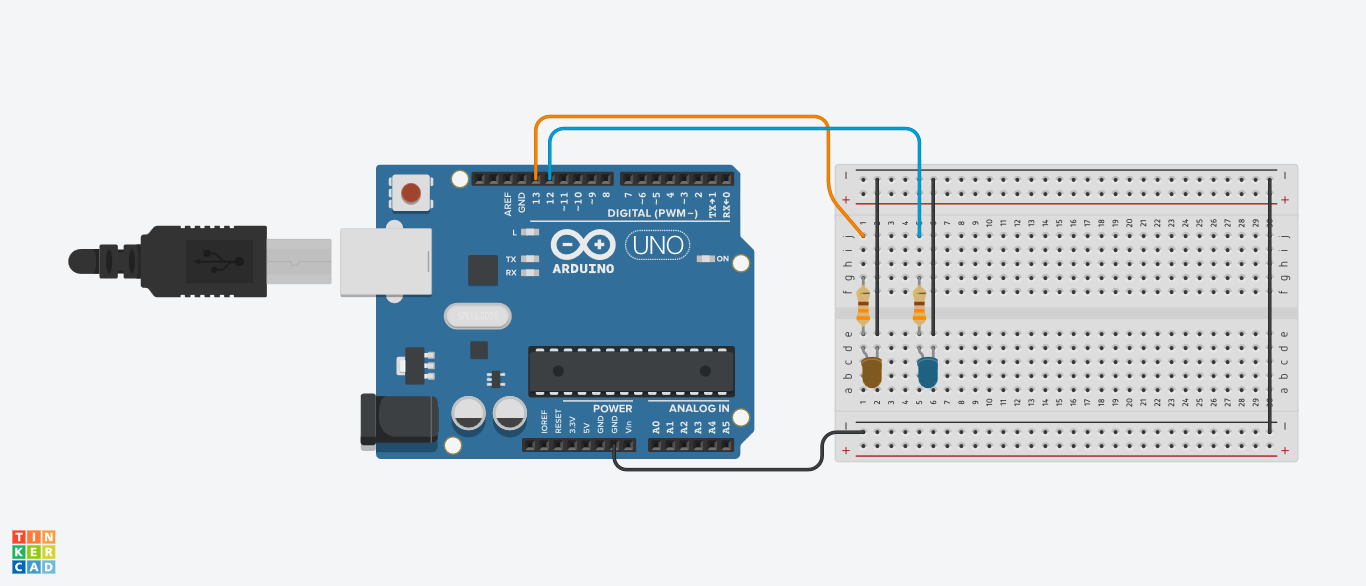
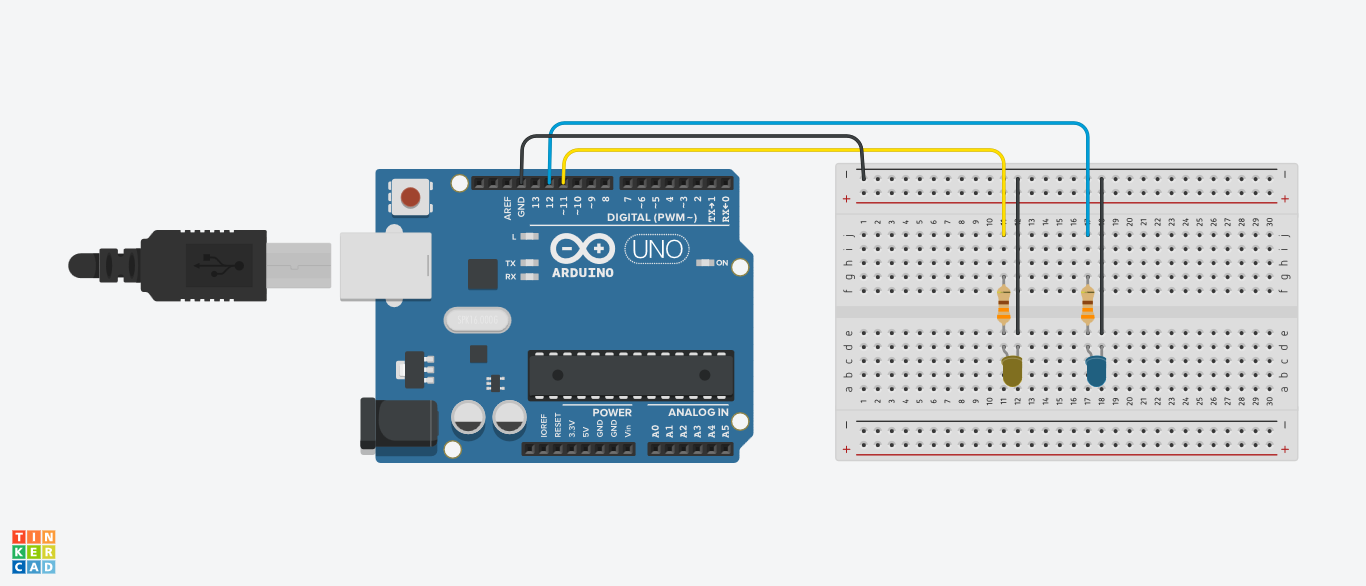
Add and update LED exercises and documentation
Moved the initial exercise to a new Exercises directory, updated pin assignments and timing in 01-exercise.ino, and added exercises 02-06 with corresponding .ino files. Included Exercise.md with instructions in both Portuguese and English. Updated Circuit.png and Scheme.pdf diagrams.

Changed region(s): [[0.246, 0.1843, 0.9531, 0.8294], [0.0615, 0.4608, 0.246, 0.5222], [0.0615, 0.3686, 0.246, 0.43]]

diff --git a/Arduino/01-led/Exercises/Exercise.md b/Arduino/01-led/Exercises/Exercise.md
@@ -1,0 +1,31 @@
+# LED Tasks / Tarefas de LED
+
+## Português (PT-BR)
+
+1. Faça os leds piscarem a cada 4 seg.
+
+2. Faça os leds ficarem acesos por 2 seg. e apagados por 4 seg.
+
+3. Faça os leds ficarem acesos por 2 seg. e apagados por 4 seg. e em seguida acesos por 3 seg. e apagados por 5 seg.
+
+4. Faça apenas um dos leds da placa piscar ao mesmo tempo que o led externo com o tempo 1 seg.
+
+5. Faça o led da placa piscar com um tempo de 2 seg. e o led externo piscar com um tempo de 3 seg. em sequência.
+
+6. Faça o led da placa piscar alternadamente em relação ao led externo com o tempo de 1 seg.
+
+---
+
+## English (EN)
+
+1. Make the LEDs blink every 4 seconds.
+
+2. Make the LEDs stay on for 2 seconds and off for 4 seconds.
+
+3. Make the LEDs stay on for 2 seconds and off for 4 seconds, then on for 3 seconds and off for 5 seconds.
+
+4. Make only one of the board's LEDs blink at the same time as the external LED with a 1-second interval.
+
+5. Make the board's LED blink with a 2-second period and the external LED blink with a 3-second period, sequentially.
+
+6. Make the board's LED blink alternately with respect to the external LED with a 1-second interval (when one is on, the other is off).
